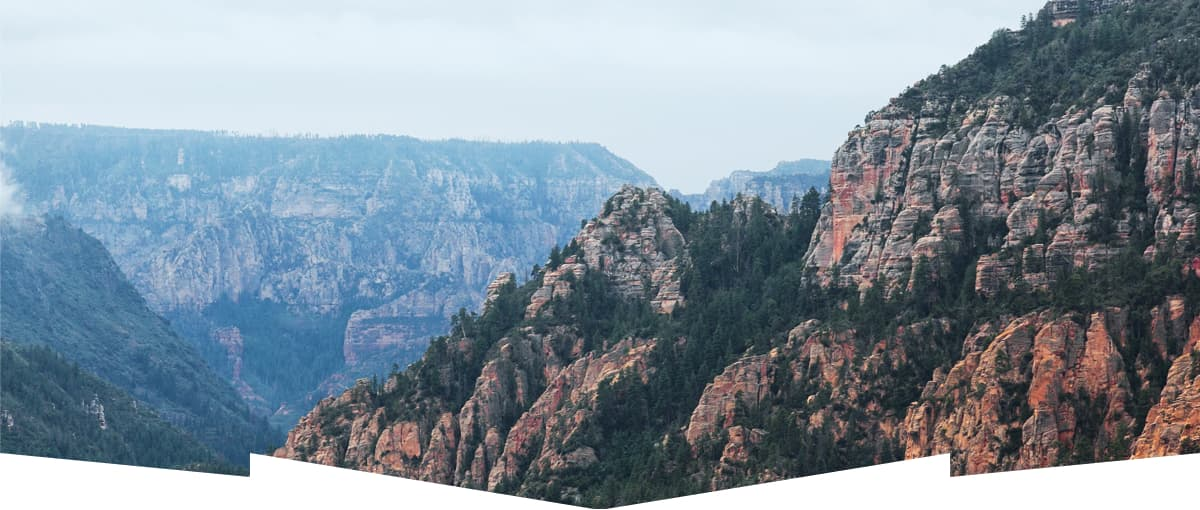
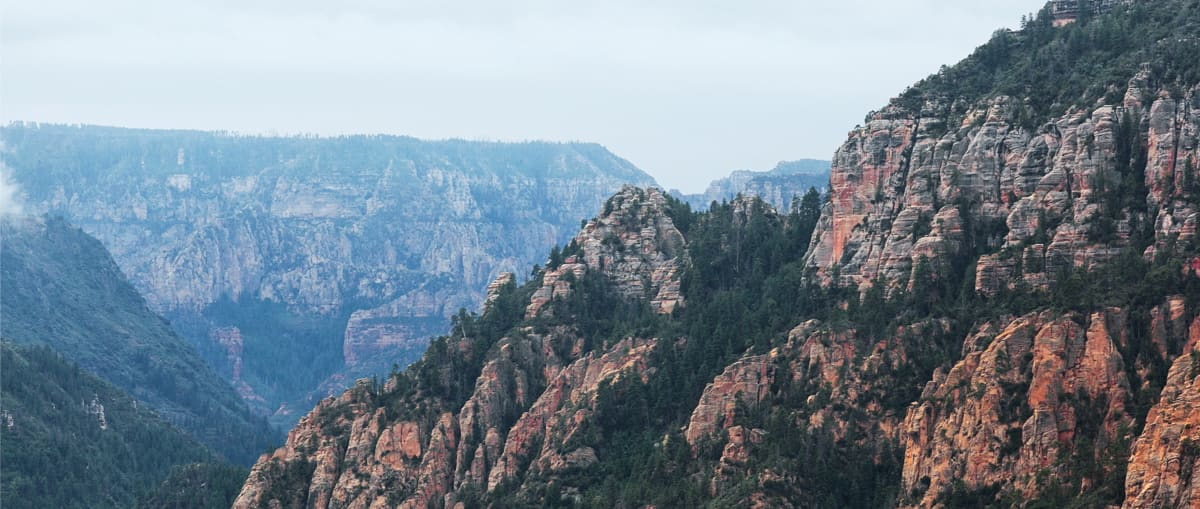
Исправления background-index

diff --git a/index.html b/index.html
@@ -22,6 +22,7 @@
       <section>
         <h1>Седона. Поиск Гостиниц</h1>
         <img src="img/background-index.jpg" width="1200" height="509" alt="">
+        <img src="img/mask-background-index.svg" width="1200" height="57" alt="">
         <img src="img/welcome.svg" width="457" height="351" alt="Welcome to the gorgeous Sedona">
       </section>
   		<section>
